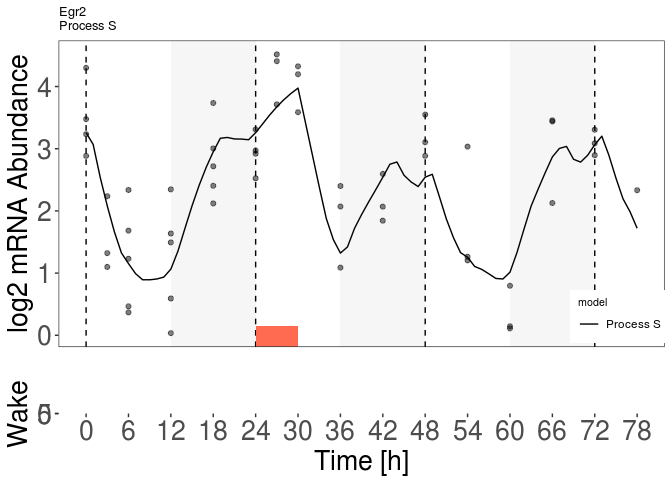
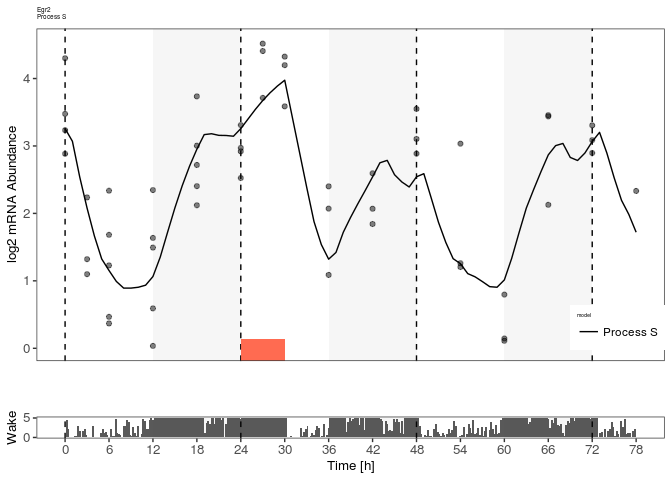
Rerun with smaller labels

diff --git a/README.md b/README.md
@@ -11,8 +11,12 @@
 
     source("R/functions/LoadData.R")
     source("R/functions/FitFunctions_Downstream.R")
-    suppressMessages(LoadPrimetimeObjs())  # loads the processed data into R
+    suppressWarnings(suppressMessages(LoadPrimetimeObjs()))  # loads the processed data into R
 
+    ## Loading objects:
+    ##   dat.long.cleaned
+    ## Loading objects:
+    ##   dat.long.cleaned
     ## Loading objects:
     ##   dat.long.means
     ##   clstrs
@@ -37,7 +41,7 @@ The expression dynamics of many genes can be accurately predicted from
 sleep-wake history of mice:
 
     g <- "Egr2"
-    print(PlotBestFit(subset(dat.long.shift, gene == g), subset(fits, gene == g), filt.time, g, wake.collapsed, low.pass.filt.time, dat.pred = NA, dat.eeg = dat.eeg.plot))
+    print(PlotBestFit(subset(dat.long.shift, gene == g), subset(fits, gene == g), filt.time, g, wake.collapsed, low.pass.filt.time, dat.pred = NA, dat.eeg = dat.eeg.plot, jsize = 10))
 
     ## [1] "Adding rectangle"
 
@@ -48,7 +52,7 @@ sleep-wake history of mice:
 
     ## Warning: Removed 2 rows containing missing values (geom_bar).
 
-<img src="README_files/figure-markdown_strict/unnamed-chunk-2-1.png" alt="fig1" width="500"/>
+![](README_files/figure-markdown_strict/unnamed-chunk-2-1.png)
 
     ## NULL
 
@@ -56,7 +60,7 @@ Interestingly, clock and clock output genes were affected by sleep
 deprivation, often in a non-trivial manner:
 
     g <- "Nr1d1"
-    print(PlotBestFit(subset(dat.long.shift, gene == g), subset(fits, gene == g), filt.time, g, wake.collapsed, low.pass.filt.time, dat.pred = NA, dat.eeg = dat.eeg.plot))
+    print(PlotBestFit(subset(dat.long.shift, gene == g), subset(fits, gene == g), filt.time, g, wake.collapsed, low.pass.filt.time, dat.pred = NA, dat.eeg = dat.eeg.plot, jsize = 10))
 
     ## [1] "Adding rectangle"
 
@@ -139,7 +143,7 @@ We inferred that SRF may be driving many of the early-response dynamics
     act.means <- act.long %>%
       group_by(gene, time) %>%
       summarise(exprs = mean(exprs), sem = sqrt(sum(sem ^ 2)))
-    PlotMara.withEEG(subset(act.means, gene == jmotif), dat.eeg.plot, jtitle = jmotif)
+    PlotMara.withEEG(subset(act.means, gene == jmotif), dat.eeg.plot, jtitle = jmotif, labsize = 10, ysize = 10)
 
     ## [1] "Adding rectangle"
 
